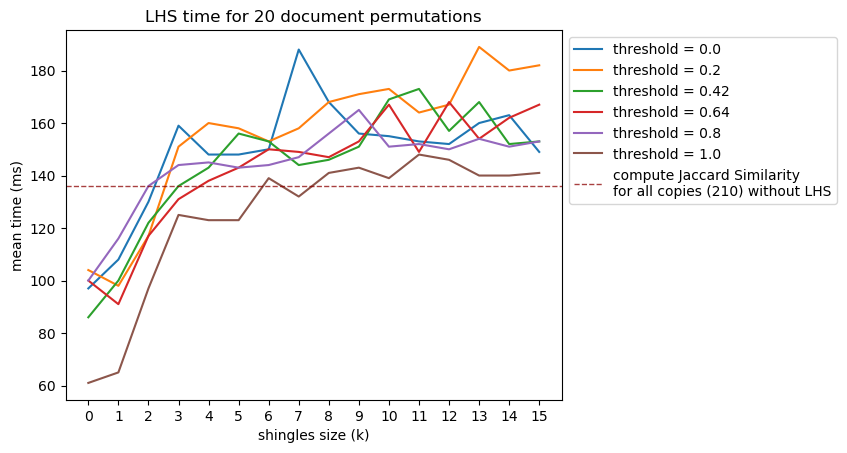
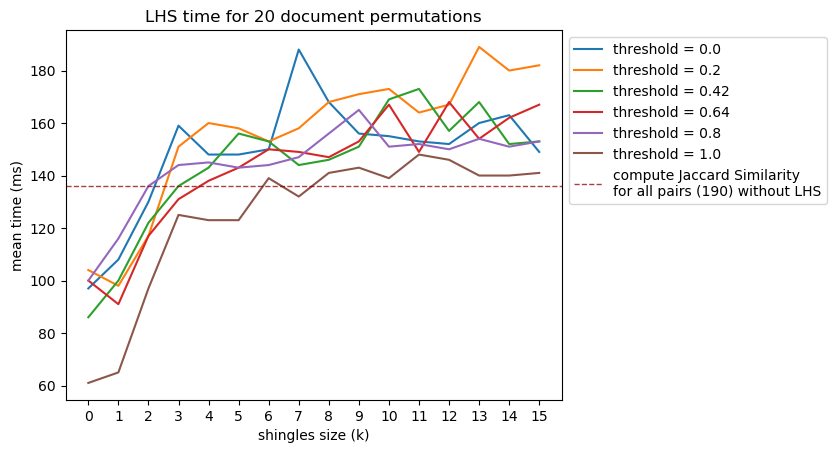
correccio lhs time plot

diff --git a/algorithms/lhs.cpp b/algorithms/lhs.cpp
@@ -36,7 +36,7 @@ int main(int argc, char** argv){
 	// demenar la matriu
 	int k;
 	int nHashFunctions = 500;
-	bool measuringTime = true;
+	bool measuringTime = false;
     bool spaces = true;
 	bool allLowercase = true;
 	double threshold = 0.42;
@@ -60,7 +60,6 @@ int main(int argc, char** argv){
     clock_t tStart;
 
 
-    
 	if (measuringTime) {
 		tStart = clock();
 	}
@@ -77,11 +76,11 @@ int main(int argc, char** argv){
 		printf("%.3f", (double)(clock() - tStart)/CLOCKS_PER_SEC);
     }
     else {
-        cout << numTrueCopies << endl;
+        //cout << numTrueCopies << endl;
     }
-    
 
-/*
+
+
     if (measuringTime) {
         tStart = clock();
     }
@@ -181,7 +180,14 @@ int main(int argc, char** argv){
         // Print time elapsed in s
 		printf("%.3f", (double)(clock() - tStart)/CLOCKS_PER_SEC);
     }
-*/
+    //NumCandidats
+    cout << numCandidatePairs << ",";
+    //Falsos positius
+    cout << (numCandidatePairs - numTruePairs) << ",";
+    //Encerts
+    cout << numTruePairs << ",";
+    //Falsos negatius
+    cout << numTrueCopies - numTruePairs << ","
     /*
 	meanSimTrue /= numTruePairs;
 	meanSimFalse /= (double)(numCandidatePairs - numTruePairs);

diff --git a/statsScripts/lhs_stats_k_t.1.py b/statsScripts/lhs_stats_k_t.1.py
@@ -1,0 +1,33 @@
+import subprocess
+lacaPath = 'D:\\code\\practicaAlgorismia'
+martinPath = ''
+rogerPath = ''
+path = lacaPath
+
+file = open(path + '\\data\\lsh_time.csv', 'w')
+file.write('t, k, time' + '\n')
+
+
+# n = number of hash functions applied to create signature matrix
+
+thres = [0.0, 0.2, 0.42, 0.64, 0.8, 1.0]
+for t in thres:
+    numRep = 0
+    npairs = 0
+    # nHashFunctions
+    n = 500
+
+    # k = size of shingles
+    for k in range(16):
+        out = subprocess.check_output([path + '\\algorithms\\lhs.exe', str(k), str(1), str(1), str(n), str(t)])
+        time = float(out.decode("utf-8"))*1000
+        out = str(t) + ', ' + str(k) + ', ' + str(time)
+        print(out)
+        file.write(out + '\n')   
+         
+file.close()
+
+
+
+
+    

diff --git a/statsScripts/lsh_time_PLOT_2D.py b/statsScripts/lsh_time_PLOT_2D.py
@@ -34,7 +34,7 @@ plt.xticks([x for x in range(0, maxRange, 1)])
 # ax.xaxis.set_major_locator(ticker.MultipleLocator(base=0.5))
 
 # Add marker at average word size
-ax.axhline(y=136, linestyle='--', linewidth=1, color='darkred', label='compute Jaccard Similarity\nfor all copies (210) without LHS', alpha=0.75)
+ax.axhline(y=136, linestyle='--', linewidth=1, color='darkred', label='compute Jaccard Similarity\nfor all pairs (190) without LHS', alpha=0.75)
 
 # Add legend
 plt.legend(loc='upper right')
